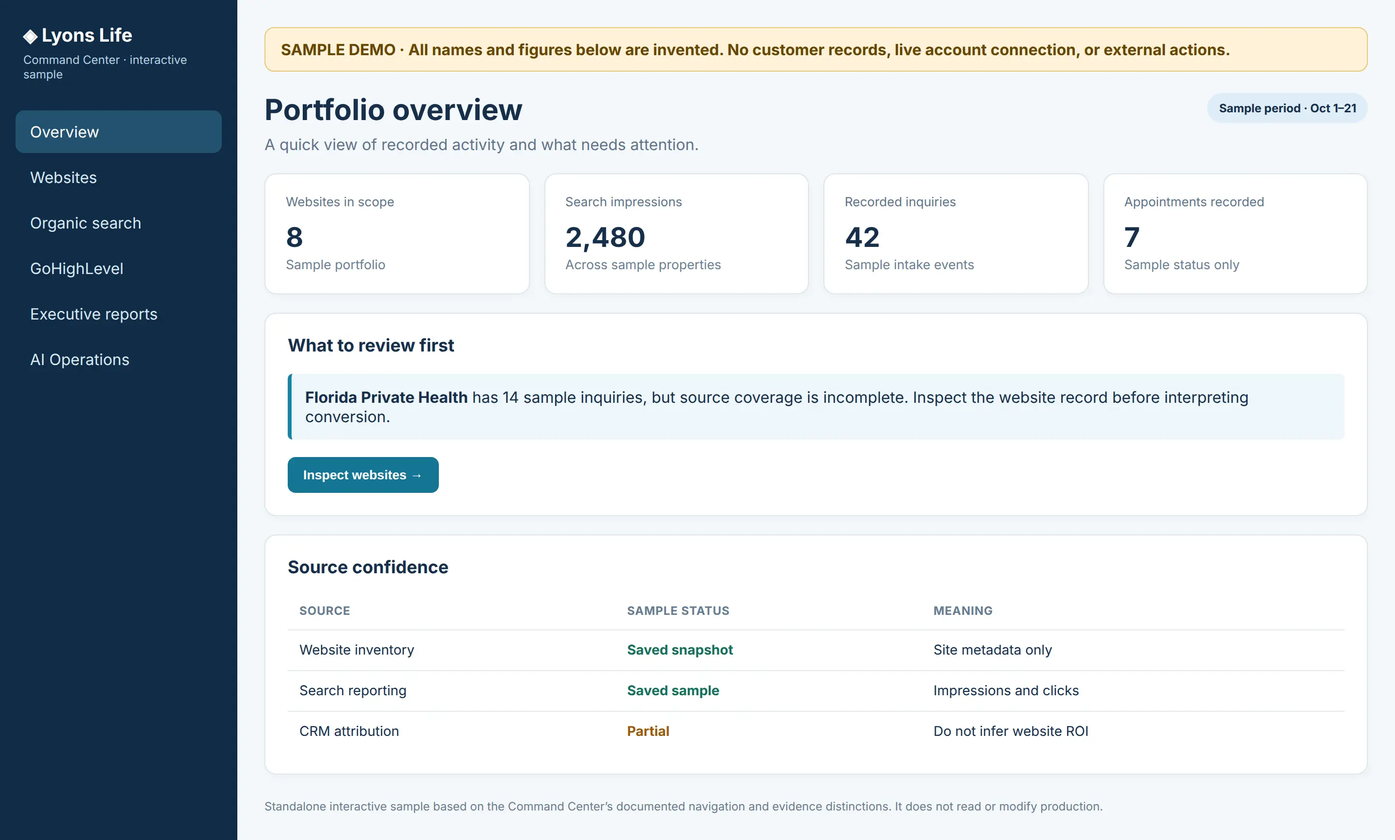
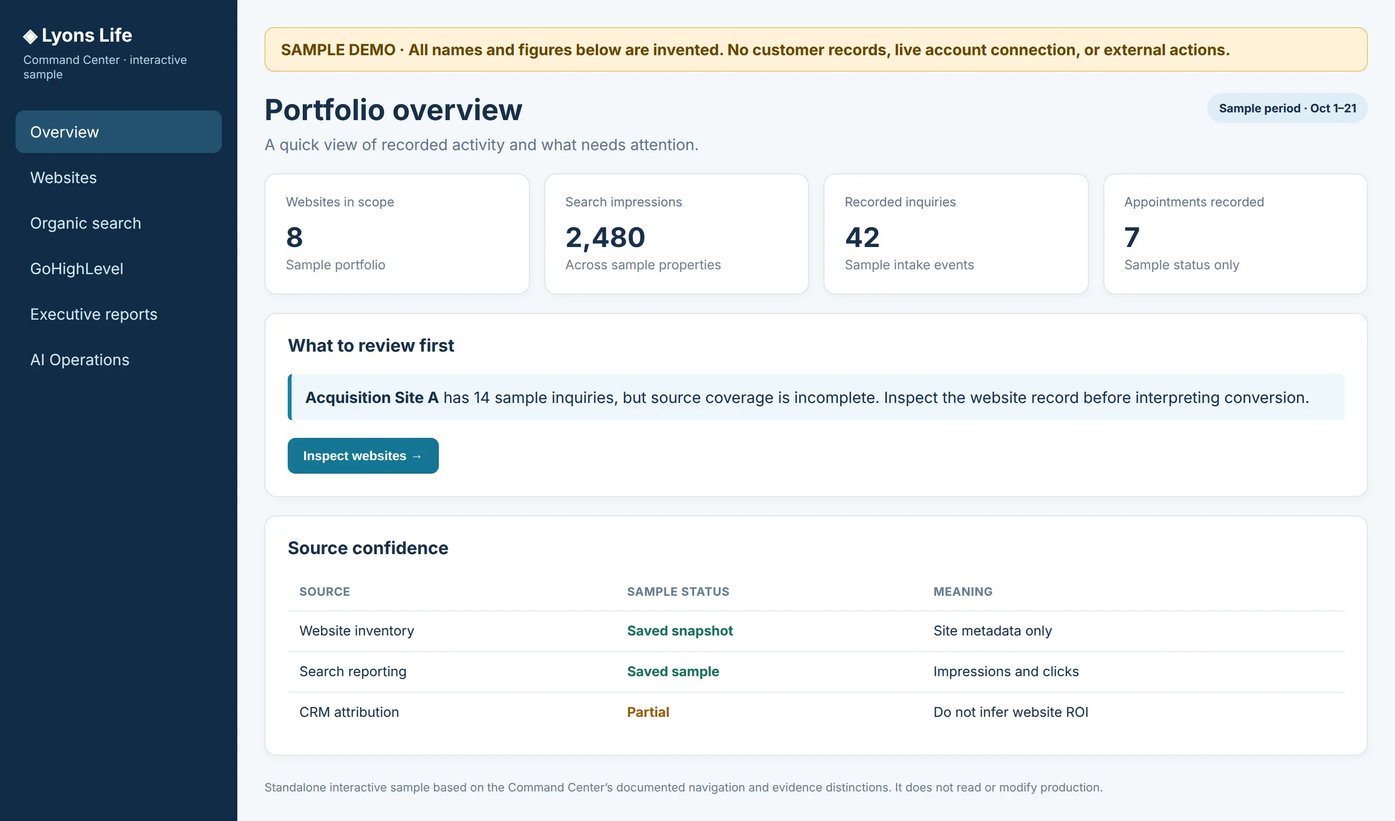
Add a simulated AI console and generic Lyons demo site labels.
Replace the sample site names with Acquisition Site A, B, and C, and add an example agent console that plays only while it is on screen.

diff --git a/public/work/lyons-life-demo/index.html b/public/work/lyons-life-demo/index.html
@@ -15,11 +15,11 @@
 </style></head><body>
 <aside><h1>◈ Lyons Life</h1><p>Command Center · interactive sample</p><nav aria-label="Demo navigation"><button data-page="overview" class="active">Overview</button><button data-page="websites">Websites</button><button data-page="seo">Organic search</button><button data-page="crm">GoHighLevel</button><button data-page="reports">Executive reports</button><button data-page="operations">AI Operations</button></nav></aside>
 <main><div class="banner" role="status">SAMPLE DEMO · All names and figures below are invented. No customer records, live account connection, or external actions.</div>
-<section class="section active" id="overview"><div class="top"><div><h2>Portfolio overview</h2><p class="muted">A quick view of recorded activity and what needs attention.</p></div><span class="pill">Sample period · Oct 1–21</span></div><div class="grid"><div class="card"><span>Websites in scope</span><strong>8</strong><small>Sample portfolio</small></div><div class="card"><span>Search impressions</span><strong>2,480</strong><small>Across sample properties</small></div><div class="card"><span>Recorded inquiries</span><strong>42</strong><small>Sample intake events</small></div><div class="card"><span>Appointments recorded</span><strong>7</strong><small>Sample status only</small></div></div><div class="panel"><h3>What to review first</h3><div class="notice"><strong>Florida Private Health</strong> has 14 sample inquiries, but source coverage is incomplete. Inspect the website record before interpreting conversion.</div><button class="button" data-go="websites">Inspect websites →</button></div><div class="panel"><h3>Source confidence</h3><table><tr><th>Source</th><th>Sample status</th><th>Meaning</th></tr><tr><td>Website inventory</td><td class="ok">Saved snapshot</td><td>Site metadata only</td></tr><tr><td>Search reporting</td><td class="ok">Saved sample</td><td>Impressions and clicks</td></tr><tr><td>CRM attribution</td><td class="hold">Partial</td><td>Do not infer website ROI</td></tr></table></div></section>
-<section class="section" id="websites"><h2>Websites</h2><p class="muted">Review each asset’s role, intake state, and reporting coverage.</p><div class="panel"><div class="row"><label for="siteFilter">Show</label><select id="siteFilter"><option value="all">All sample sites</option><option value="acquisition">Acquisition sites</option><option value="trust">Trust sites</option></select></div><table id="sites"><tr><th>Website</th><th>Role</th><th>Inquiry capture</th><th>Search coverage</th></tr><tr data-role="acquisition"><td>Florida Private Health</td><td>Acquisition</td><td class="hold">Review needed</td><td class="ok">Sample report</td></tr><tr data-role="acquisition"><td>Self Employed Health</td><td>Acquisition</td><td class="ok">Sample connected</td><td class="ok">Sample report</td></tr><tr data-role="trust"><td>Lyons Life</td><td>Trust</td><td>Not a lead receiver</td><td class="hold">Unknown</td></tr><tr data-role="acquisition"><td>ACA Florida</td><td>Acquisition</td><td class="hold">Unverified</td><td>Not imported</td></tr></table></div><div class="panel"><h3>Next step</h3><p>Compare an acquisition site’s search visibility with its recorded inquiry path.</p><button class="button" data-go="seo">Open organic search →</button></div></section>
-<section class="section" id="seo"><h2>Organic search</h2><p class="muted">Technical checks, reviewed drafts, and search performance are separate evidence.</p><div class="grid"><div class="card"><span>Sample impressions</span><strong>2,480</strong></div><div class="card"><span>Sample clicks</span><strong>31</strong></div><div class="card"><span>Average CTR</span><strong>1.25%</strong></div><div class="card"><span>Sites with sample reports</span><strong>2 / 4</strong></div></div><div class="panel"><h3>Visibility by site</h3><p>Florida Private Health · 1,680 impressions</p><div class="bar"><i style="width:68%"></i></div><p>Self Employed Health · 800 impressions</p><div class="bar"><i style="width:32%"></i></div><div class="notice">These are invented example figures. Search visibility alone does not prove leads, appointments, or sales.</div></div></section>
-<section class="section" id="crm"><h2>GoHighLevel</h2><p class="muted">A saved, read-only sample of CRM activity.</p><div class="grid"><div class="card"><span>Contacts created</span><strong>126</strong></div><div class="card"><span>Opportunities created</span><strong>39</strong></div><div class="card"><span>Calendar events</span><strong>12</strong></div><div class="card"><span>Unattributed contacts</span><strong>54</strong></div></div><div class="panel"><h3>Sample source coverage</h3><table><tr><th>Source</th><th>Contacts</th><th>Confidence</th></tr><tr><td>Florida Private Health</td><td>24</td><td class="ok">Exact source sample</td></tr><tr><td>Self Employed Health</td><td>18</td><td class="ok">Exact source sample</td></tr><tr><td>Unattributed</td><td>54</td><td class="hold">Unknown origin</td></tr></table><div class="notice">An opportunity is not a verified policy sale. These sample counts do not establish revenue.</div><button class="button" data-go="reports">View executive report →</button></div></section>
-<section class="section" id="reports"><h2>Executive reports</h2><p class="muted">Turn a saved period into a clear, evidence-labeled brief.</p><div class="panel"><div class="row"><label for="period">Saved period</label><select id="period"><option>Oct 1–21 · sample</option><option>Sep 1–30 · sample</option></select><button class="button" id="generate">Generate sample brief</button></div><div id="brief" class="notice" hidden><strong>Sample brief ready.</strong><p>Search visibility and inquiries were recorded in this invented period. Attribution remains partial; revenue and policy sales are unknown. Priority: verify lead capture and source mapping on Florida Private Health.</p><button class="button secondary" id="download">Download sample brief</button></div></div></section>
+<section class="section active" id="overview"><div class="top"><div><h2>Portfolio overview</h2><p class="muted">A quick view of recorded activity and what needs attention.</p></div><span class="pill">Sample period · Oct 1–21</span></div><div class="grid"><div class="card"><span>Websites in scope</span><strong>8</strong><small>Sample portfolio</small></div><div class="card"><span>Search impressions</span><strong>2,480</strong><small>Across sample properties</small></div><div class="card"><span>Recorded inquiries</span><strong>42</strong><small>Sample intake events</small></div><div class="card"><span>Appointments recorded</span><strong>7</strong><small>Sample status only</small></div></div><div class="panel"><h3>What to review first</h3><div class="notice"><strong>Acquisition Site A</strong> has 14 sample inquiries, but source coverage is incomplete. Inspect the website record before interpreting conversion.</div><button class="button" data-go="websites">Inspect websites →</button></div><div class="panel"><h3>Source confidence</h3><table><tr><th>Source</th><th>Sample status</th><th>Meaning</th></tr><tr><td>Website inventory</td><td class="ok">Saved snapshot</td><td>Site metadata only</td></tr><tr><td>Search reporting</td><td class="ok">Saved sample</td><td>Impressions and clicks</td></tr><tr><td>CRM attribution</td><td class="hold">Partial</td><td>Do not infer website ROI</td></tr></table></div></section>
+<section class="section" id="websites"><h2>Websites</h2><p class="muted">Review each asset’s role, intake state, and reporting coverage.</p><div class="panel"><div class="row"><label for="siteFilter">Show</label><select id="siteFilter"><option value="all">All sample sites</option><option value="acquisition">Acquisition sites</option><option value="trust">Trust sites</option></select></div><table id="sites"><tr><th>Website</th><th>Role</th><th>Inquiry capture</th><th>Search coverage</th></tr><tr data-role="acquisition"><td>Acquisition Site A</td><td>Acquisition</td><td class="hold">Review needed</td><td class="ok">Sample report</td></tr><tr data-role="acquisition"><td>Acquisition Site B</td><td>Acquisition</td><td class="ok">Sample connected</td><td class="ok">Sample report</td></tr><tr data-role="trust"><td>Lyons Life</td><td>Trust</td><td>Not a lead receiver</td><td class="hold">Unknown</td></tr><tr data-role="acquisition"><td>Acquisition Site C</td><td>Acquisition</td><td class="hold">Unverified</td><td>Not imported</td></tr></table></div><div class="panel"><h3>Next step</h3><p>Compare an acquisition site’s search visibility with its recorded inquiry path.</p><button class="button" data-go="seo">Open organic search →</button></div></section>
+<section class="section" id="seo"><h2>Organic search</h2><p class="muted">Technical checks, reviewed drafts, and search performance are separate evidence.</p><div class="grid"><div class="card"><span>Sample impressions</span><strong>2,480</strong></div><div class="card"><span>Sample clicks</span><strong>31</strong></div><div class="card"><span>Average CTR</span><strong>1.25%</strong></div><div class="card"><span>Sites with sample reports</span><strong>2 / 4</strong></div></div><div class="panel"><h3>Visibility by site</h3><p>Acquisition Site A · 1,680 impressions</p><div class="bar"><i style="width:68%"></i></div><p>Acquisition Site B · 800 impressions</p><div class="bar"><i style="width:32%"></i></div><div class="notice">These are invented example figures. Search visibility alone does not prove leads, appointments, or sales.</div></div></section>
+<section class="section" id="crm"><h2>GoHighLevel</h2><p class="muted">A saved, read-only sample of CRM activity.</p><div class="grid"><div class="card"><span>Contacts created</span><strong>126</strong></div><div class="card"><span>Opportunities created</span><strong>39</strong></div><div class="card"><span>Calendar events</span><strong>12</strong></div><div class="card"><span>Unattributed contacts</span><strong>54</strong></div></div><div class="panel"><h3>Sample source coverage</h3><table><tr><th>Source</th><th>Contacts</th><th>Confidence</th></tr><tr><td>Acquisition Site A</td><td>24</td><td class="ok">Exact source sample</td></tr><tr><td>Acquisition Site B</td><td>18</td><td class="ok">Exact source sample</td></tr><tr><td>Unattributed</td><td>54</td><td class="hold">Unknown origin</td></tr></table><div class="notice">An opportunity is not a verified policy sale. These sample counts do not establish revenue.</div><button class="button" data-go="reports">View executive report →</button></div></section>
+<section class="section" id="reports"><h2>Executive reports</h2><p class="muted">Turn a saved period into a clear, evidence-labeled brief.</p><div class="panel"><div class="row"><label for="period">Saved period</label><select id="period"><option>Oct 1–21 · sample</option><option>Sep 1–30 · sample</option></select><button class="button" id="generate">Generate sample brief</button></div><div id="brief" class="notice" hidden><strong>Sample brief ready.</strong><p>Search visibility and inquiries were recorded in this invented period. Attribution remains partial; revenue and policy sales are unknown. Priority: verify lead capture and source mapping on Acquisition Site A.</p><button class="button secondary" id="download">Download sample brief</button></div></div></section>
 <section class="section" id="operations"><h2>AI Operations</h2><p class="muted">Illustration of the safety controls. No agent runs from this demo.</p><div class="grid"><div class="card"><span>Global state</span><strong>Paused</strong></div><div class="card"><span>Outbound actions</span><strong>Off</strong></div><div class="card"><span>CRM writes</span><strong>Off</strong></div><div class="card"><span>Sample queued jobs</span><strong>0</strong></div></div><div class="panel"><h3>Human review</h3><p>Proposed actions would require verified source data, consent, and approval before any external step. This sample contains no real job or customer data.</p></div></section>
 <p class="footer">Standalone interactive sample based on the Command Center’s documented navigation and evidence distinctions. It does not read or modify production.</p></main>
 <script>const buttons=[...document.querySelectorAll('nav button')];function show(id){document.querySelectorAll('.section').forEach(s=>s.classList.toggle('active',s.id===id));buttons.forEach(b=>b.classList.toggle('active',b.dataset.page===id));location.hash=id;scrollTo(0,0)}buttons.forEach(b=>b.onclick=()=>show(b.dataset.page));document.querySelectorAll('[data-go]').forEach(b=>b.onclick=()=>show(b.dataset.go));document.querySelector('#siteFilter').onchange=e=>document.querySelectorAll('#sites tr[data-role]').forEach(r=>r.hidden=e.target.value!=='all'&&r.dataset.role!==e.target.value);document.querySelector('#generate').onclick=()=>document.querySelector('#brief').hidden=false;document.querySelector('#download').onclick=()=>{const t='Lyons Life Command Center - SAMPLE BRIEF\nAll figures are invented. No production data.\nAttribution: partial. Revenue and verified sales: unknown.\nPriority: verify lead capture and source mapping.\n';const a=document.createElement('a');a.href=URL.createObjectURL(new Blob([t],{type:'text/plain'}));a.download='lyons-life-sample-brief.txt';a.click();setTimeout(()=>URL.revokeObjectURL(a.href),1000)};if(location.hash&&document.querySelector(location.hash+'.section'))show(location.hash.slice(1));</script></body></html>

diff --git a/src/home-v2.css b/src/home-v2.css
@@ -111,7 +111,7 @@ em{font-family:var(--ser);font-style:italic;font-weight:400;letter-spacing:-.02e
 .reel-sound[aria-pressed="true"] .ico-on{display:block}
 .work{padding:112px 0 40px}
 .work .wrap{width:min(1280px,calc(100% - 64px))}
-#work,#example,#book{scroll-margin-top:88px}
+#work,#example,#agents,#book{scroll-margin-top:88px}
 .sec{margin-bottom:64px}
 .sec h2,.example h2,.close h2{margin:0;font-weight:520;letter-spacing:-.045em;line-height:1;text-wrap:balance}
 .sec h2{font-size:clamp(2.4rem,5vw,4.25rem)}
@@ -220,9 +220,105 @@ footer a:hover{color:var(--cream)}
 @keyframes keys{0%,100%{opacity:.28}50%{opacity:.85}}
 @keyframes glow{0%,100%{opacity:.45}50%{opacity:1}}
 @keyframes sweep{0%{opacity:0;transform:translate3d(-52%,26%,0)}22%{opacity:1}100%{opacity:0;transform:translate3d(46%,-22%,0)}}
+.ops{padding:108px 0 88px;border-top:1px solid var(--line)}
+.ops-head{display:flex;align-items:flex-end;justify-content:space-between;gap:28px}
+.ops h2{margin:0;font-size:clamp(1.7rem,2.15vw,2.4rem);font-weight:520;letter-spacing:-.045em;line-height:1.05;white-space:nowrap}
+.ops-head .btn{flex:none}
+.ops-board{margin-top:36px;padding:22px;border-radius:28px;border:1px solid var(--line);background:#12110f;box-shadow:0 24px 60px rgba(0,0,0,.28)}
+.ops-agents{display:grid;grid-template-columns:repeat(4,1fr);gap:12px}
+.agent{display:flex;gap:12px;align-items:flex-start;min-height:108px;padding:16px;border-radius:16px;border:1px solid var(--line);background:#0D0C0A}
+.agent strong{display:block;font-size:1rem;font-weight:620;letter-spacing:-.03em}
+.agent em{display:block;margin-top:4px;font-style:normal;color:var(--mute);font-size:.86rem}
+.dot{flex:none;width:9px;height:9px;margin-top:6px;border-radius:50%;background:var(--acid);box-shadow:0 0 0 4px rgba(212,255,58,.12)}
+.phases{position:relative;display:block;height:1.15em;margin-top:8px}
+.phases i{position:absolute;left:0;top:0;font-style:normal;font-size:11px;font-weight:650;letter-spacing:.12em;text-transform:uppercase}
+.phases .idle{color:var(--mute);opacity:0}
+.phases .work{color:#007BF8;opacity:0}
+.phases .done{color:var(--acid);opacity:1}
+.ops-stage{display:grid;grid-template-columns:1.2fr .8fr;gap:16px;margin-top:16px}
+.ops-prompt,.ops-feed{padding:18px;border-radius:18px;border:1px solid var(--line);background:#0D0C0A}
+.kicker{margin:0 0 12px;color:var(--mute);font-size:11px;font-weight:650;letter-spacing:.14em;text-transform:uppercase}
+.ops-type{min-height:1.4em;margin:0;font-family:var(--ser);font-style:italic;font-size:clamp(1.35rem,2vw,1.8rem);letter-spacing:-.02em;line-height:1.2}
+.ops-type i{font-style:normal}
+.caret{display:inline-block;width:2px;height:.85em;margin-left:2px;background:var(--acid);transform:translateY(2px);opacity:0;vertical-align:baseline}
+.ops-pick{margin:12px 0 0;color:var(--soft);font-size:.92rem}
+.ops-steps{list-style:none;margin:16px 0 0;padding:0}
+.ops-steps li{display:flex;align-items:center;gap:10px;min-height:40px;font-size:.98rem}
+.tick{flex:none;width:16px;height:16px;border-radius:50%;border:1.5px solid var(--acid);position:relative}
+.tick::after{content:"";position:absolute;left:4px;top:2px;width:4px;height:7px;border-right:1.5px solid var(--ink);border-bottom:1.5px solid var(--ink);transform:rotate(45deg);opacity:0}
+.ops-steps .tick,.ops-feed .tick{background:var(--acid)}
+.ops-steps .tick::after,.ops-feed .tick::after{opacity:1}
+.chip{margin-left:auto;display:inline-flex;align-items:center;min-height:28px;padding:0 10px;border-radius:99px;background:var(--acid);color:var(--ink);font-size:12px;font-weight:700;letter-spacing:-.01em}
+.ops-feed ul{list-style:none;margin:0;padding:0}
+.ops-feed li{display:grid;grid-template-columns:minmax(0,1fr) auto;grid-template-areas:"who tick" "what what" "bar bar";gap:6px 10px;align-items:center;padding:12px 0;border-top:1px solid var(--line)}
+.ops-feed li:first-child{border-top:0;padding-top:0}
+.ops-feed .who{grid-area:who;color:var(--soft);font-size:.82rem;font-weight:650}
+.ops-feed .what{grid-area:what;font-size:.98rem;letter-spacing:-.02em}
+.ops-feed .track{grid-area:bar;display:block;height:4px;border-radius:99px;background:rgba(241,234,219,.12);overflow:hidden}
+.ops-feed .track i{display:block;height:100%;width:100%;background:var(--acid);transform:scaleX(1);transform-origin:left center}
+.ops-feed .tick{grid-area:tick}
+.ops-pause{display:block;margin:16px 0 0 auto;min-height:36px;padding:0 12px;border-radius:8px;border:1px solid rgba(241,234,219,.32);background:#0D0C0A;color:var(--cream);font:600 12px/1 var(--disp);cursor:pointer}
+@media (max-width:980px){
+  .ops h2{white-space:normal}
+  .ops-head{display:block}
+  .ops-head .btn{margin-top:18px}
+  .ops-agents,.ops-stage{grid-template-columns:1fr 1fr}
+  .ops-stage{grid-template-columns:1fr}
+}
+@media (prefers-reduced-motion:no-preference){
+  .ops .agent{animation:opsAgent 14s linear infinite;animation-play-state:paused}
+  .ops .agent:nth-child(2){animation-delay:.12s}
+  .ops .agent:nth-child(3){animation-delay:.24s}
+  .ops .agent:nth-child(4){animation-delay:.36s}
+  .ops .dot,.ops .phases i{animation-duration:14s;animation-timing-function:linear;animation-iteration-count:infinite;animation-play-state:paused;animation-delay:var(--d,0s)}
+  .ops .dot{animation-name:opsDot}
+  .ops .idle{animation-name:opsIdle}
+  .ops .work{animation-name:opsWork}
+  .ops .done{animation-name:opsDone}
+  .ops-type i{animation:opsType 14s linear infinite;animation-play-state:paused;animation-delay:calc(var(--i) * .05s)}
+  .caret{animation:opsCaret 14s linear infinite;animation-play-state:paused}
+  .ops-pick{animation:opsPick 14s linear infinite;animation-play-state:paused}
+  .s1 .tick{animation:opsTick1 14s linear infinite;animation-play-state:paused}
+  .s2 .tick{animation:opsTick2 14s linear infinite;animation-play-state:paused}
+  .s3 .tick{animation:opsTick3 14s linear infinite;animation-play-state:paused}
+  .chip{animation:opsChip 14s linear infinite;animation-play-state:paused}
+  .row.a .track i{animation:opsBarA 14s linear infinite;animation-play-state:paused}
+  .row.b .track i{animation:opsBarB 14s linear infinite;animation-play-state:paused}
+  .row.c .track i{animation:opsBarC 14s linear infinite;animation-play-state:paused}
+  .row.a .tick{animation:opsTickA 14s linear infinite;animation-play-state:paused}
+  .row.b .tick{animation:opsTickB 14s linear infinite;animation-play-state:paused}
+  .row.c .tick{animation:opsTickC 14s linear infinite;animation-play-state:paused}
+  .ops.is-on:not(.is-paused) .agent,
+  .ops.is-on:not(.is-paused) .dot,
+  .ops.is-on:not(.is-paused) .phases i,
+  .ops.is-on:not(.is-paused) .ops-type i,
+  .ops.is-on:not(.is-paused) .caret,
+  .ops.is-on:not(.is-paused) .ops-pick,
+  .ops.is-on:not(.is-paused) .tick,
+  .ops.is-on:not(.is-paused) .chip,
+  .ops.is-on:not(.is-paused) .track i{animation-play-state:running}
+}
+@keyframes opsAgent{0%{opacity:0;transform:translateY(16px) scale(.98)}10%,92%{opacity:1;transform:none}100%{opacity:0;transform:translateY(10px)}}
+@keyframes opsDot{0%,14%{opacity:.28;transform:scale(.75)}18%{opacity:1;transform:scale(1)}24%{opacity:.4;transform:scale(.85)}30%{opacity:1;transform:scale(1)}36%{opacity:.45;transform:scale(.85)}42%,90%{opacity:1;transform:scale(1)}100%{opacity:.28;transform:scale(.75)}}
+@keyframes opsIdle{0%,14%{opacity:1}20%,90%{opacity:0}100%{opacity:1}}
+@keyframes opsWork{0%,16%{opacity:0}20%{opacity:1}26%{opacity:.35}32%{opacity:1}38%{opacity:.4}44%,100%{opacity:0}}
+@keyframes opsDone{0%,42%{opacity:0}48%,90%{opacity:1}100%{opacity:0}}
+@keyframes opsType{0%,16%{opacity:0}22%,88%{opacity:1}96%,100%{opacity:0}}
+@keyframes opsCaret{0%,16%{opacity:0}18%{opacity:1}22%{opacity:0}26%{opacity:1}32%{opacity:0}38%{opacity:1}44%,100%{opacity:0}}
+@keyframes opsPick{0%,38%{opacity:0;transform:translateY(6px)}46%,92%{opacity:1;transform:none}100%{opacity:0;transform:none}}
+@keyframes opsTick1{0%,44%{opacity:0;transform:scale(.7)}50%,92%{opacity:1;transform:none}100%{opacity:0;transform:scale(.7)}}
+@keyframes opsTick2{0%,54%{opacity:0;transform:scale(.7)}60%,92%{opacity:1;transform:none}100%{opacity:0;transform:scale(.7)}}
+@keyframes opsTick3{0%,76%{opacity:0;transform:scale(.7)}82%,92%{opacity:1;transform:none}100%{opacity:0;transform:scale(.7)}}
+@keyframes opsChip{0%,64%{opacity:0;transform:translateY(8px) scale(.96)}72%,92%{opacity:1;transform:none}100%{opacity:0;transform:translateY(6px)}}
+@keyframes opsBarA{0%,12%{transform:scaleX(0)}36%,92%{transform:scaleX(1)}100%{transform:scaleX(0)}}
+@keyframes opsBarB{0%,20%{transform:scaleX(0)}50%,92%{transform:scaleX(1)}100%{transform:scaleX(0)}}
+@keyframes opsBarC{0%,28%{transform:scaleX(0)}60%,92%{transform:scaleX(1)}100%{transform:scaleX(0)}}
+@keyframes opsTickA{0%,34%{opacity:0;transform:scale(.7)}40%,92%{opacity:1;transform:none}100%{opacity:0;transform:scale(.7)}}
+@keyframes opsTickB{0%,48%{opacity:0;transform:scale(.7)}54%,92%{opacity:1;transform:none}100%{opacity:0;transform:scale(.7)}}
+@keyframes opsTickC{0%,58%{opacity:0;transform:scale(.7)}64%,92%{opacity:1;transform:none}100%{opacity:0;transform:scale(.7)}}
 @media (prefers-reduced-motion:reduce){
   *,*::before,*::after{animation:none!important;transition:none!important}
-  .reel-sound,.hero-pause{display:none!important}
+  .reel-sound,.hero-pause,.ops-pause{display:none!important}
   html{scroll-behavior:auto}
   .lost li:nth-child(2){transform:none}
 }
@@ -251,7 +347,8 @@ footer a:hover{color:var(--cream)}
   .hero-pause{position:static;order:4;margin:0 16px 16px;align-self:flex-end}
   .work{padding-top:72px}
   .pieces{gap:72px}
-  .example,.close{padding:72px 0}
+  .example,.close,.ops{padding:72px 0}
+  .ops-agents{grid-template-columns:1fr}
   .split{grid-template-columns:1fr;gap:16px}
   .to{width:2px;height:36px;justify-self:center;background:linear-gradient(180deg,rgba(163,155,140,.4),var(--acid))}
   .to::after{right:auto;left:50%;top:auto;bottom:-4px;transform:translateX(-50%) rotate(135deg)}

diff --git a/index.html b/index.html
@@ -248,7 +248,7 @@
             <div class="tilt">
               <div class="device">
                 <span class="device-top" aria-hidden="true"><i></i><i></i><i></i></span>
-                <img src="/home-v2/lyons-life.webp" width="2880" height="1735" alt="Lyons Life Command Center sample demo" decoding="async" loading="lazy">
+                <img src="/home-v2/lyons-life.webp" width="2880" height="1695" alt="Lyons Life Command Center sample demo" decoding="async" loading="lazy">
               </div>
               <div class="cap"><h3>Lyons Life Command Center</h3><span class="line">Try the interactive demo</span></div>
               <p class="piece-note">A command center for an insurance agency's website portfolio: websites, organic search, GoHighLevel CRM activity, executive reports and AI operations with human-approval safety controls, in one place.</p>
@@ -299,6 +299,67 @@
         </div>
       </div>
       <p class="note">Example, not a client's data.</p>
+    </div>
+  </section>
+
+  <section class="ops" id="agents" aria-labelledby="agents-title">
+    <div class="wrap">
+      <div class="ops-head">
+        <div>
+          <p class="ex">Example console, simulated</p>
+          <h2 id="agents-title">AI agents that work for your business, with you in control.</h2>
+        </div>
+        <a class="btn" href="/book/" data-fsai-placement="home_agents">Book a call</a>
+      </div>
+      <div class="ops-board" aria-hidden="true">
+        <div class="ops-agents">
+          <article class="agent" style="--d:0s">
+            <span class="dot"></span>
+            <div><strong>Lead Responder</strong><em>Answers new inquiries</em>
+              <span class="phases"><i class="idle">Idle</i><i class="work">Working</i><i class="done">Done</i></span>
+            </div>
+          </article>
+          <article class="agent" style="--d:3.4s">
+            <span class="dot"></span>
+            <div><strong>Follow-up</strong><em>Writes the next text</em>
+              <span class="phases"><i class="idle">Idle</i><i class="work">Working</i><i class="done">Done</i></span>
+            </div>
+          </article>
+          <article class="agent" style="--d:1.2s">
+            <span class="dot"></span>
+            <div><strong>Reporting</strong><em>Prepares the daily brief</em>
+              <span class="phases"><i class="idle">Idle</i><i class="work">Working</i><i class="done">Done</i></span>
+            </div>
+          </article>
+          <article class="agent" style="--d:2.4s">
+            <span class="dot"></span>
+            <div><strong>Scheduler</strong><em>Holds an open time</em>
+              <span class="phases"><i class="idle">Idle</i><i class="work">Working</i><i class="done">Done</i></span>
+            </div>
+          </article>
+        </div>
+        <div class="ops-stage">
+          <div class="ops-prompt">
+            <p class="kicker">Prompt</p>
+            <p class="ops-type"><i style="--i:0">F</i><i style="--i:1">o</i><i style="--i:2">l</i><i style="--i:3">l</i><i style="--i:4">o</i><i style="--i:5">w</i><i style="--i:6">&nbsp;</i><i style="--i:7">u</i><i style="--i:8">p</i><i style="--i:9">&nbsp;</i><i style="--i:10">w</i><i style="--i:11">i</i><i style="--i:12">t</i><i style="--i:13">h</i><i style="--i:14">&nbsp;</i><i style="--i:15">e</i><i style="--i:16">v</i><i style="--i:17">e</i><i style="--i:18">r</i><i style="--i:19">y</i><i style="--i:20">&nbsp;</i><i style="--i:21">m</i><i style="--i:22">i</i><i style="--i:23">s</i><i style="--i:24">s</i><i style="--i:25">e</i><i style="--i:26">d</i><i style="--i:27">&nbsp;</i><i style="--i:28">c</i><i style="--i:29">a</i><i style="--i:30">l</i><i style="--i:31">l</i><i style="--i:32">&nbsp;</i><i style="--i:33">t</i><i style="--i:34">o</i><i style="--i:35">d</i><i style="--i:36">a</i><i style="--i:37">y</i><b class="caret"></b></p>
+            <p class="ops-pick">Picked up by Follow-up</p>
+            <ol class="ops-steps">
+              <li class="s1"><i class="tick"></i><span>Read the missed calls</span></li>
+              <li class="s2"><i class="tick"></i><span>Draft the text</span></li>
+              <li class="s3"><i class="tick"></i><span>Needs your approval</span><b class="chip">Approve</b></li>
+            </ol>
+          </div>
+          <div class="ops-feed">
+            <p class="kicker">Task feed</p>
+            <ul>
+              <li class="row a"><span class="who">Lead Responder</span><span class="what">Answer the new inquiry</span><span class="track"><i></i></span><i class="tick"></i></li>
+              <li class="row b"><span class="who">Reporting</span><span class="what">Prepare today's report</span><span class="track"><i></i></span><i class="tick"></i></li>
+              <li class="row c"><span class="who">Scheduler</span><span class="what">Hold an open time</span><span class="track"><i></i></span><i class="tick"></i></li>
+            </ul>
+          </div>
+        </div>
+      </div>
+      <button class="ops-pause" type="button" aria-pressed="false">Pause animation</button>
     </div>
   </section>
 

diff --git a/test/publicConversionPaths.test.js b/test/publicConversionPaths.test.js
@@ -15,8 +15,8 @@ test("the homepage leads with the studio offer and keeps products distinct", asy
   assert.match(html, /href="\/tools\/"/);
   assert.match(html, /href="\/journey\/"/);
   assert.match(html, /firststep-logo-transparent-cleaned\.png/);
-  assert.equal((html.match(/Book a call/g) || []).length, 3);
-  assert.equal((html.match(/href="\/book\/"/g) || []).length, 3);
+  assert.equal((html.match(/Book a call/g) || []).length, 4);
+  assert.equal((html.match(/href="\/book\/"/g) || []).length, 4);
   assert.doesNotMatch(html, /Book a 20-min call/);
   assert.match(llms, /Get more from the business you already have/);
   assert.match(llms, /1stStep OS/);
@@ -38,7 +38,18 @@ test("the homepage keeps a short section order and service pages keep their own 
   for (const anchor of ["work", "example", "founder", "book"]) assert.match(html, new RegExp('id="' + anchor + '"'));
   assert.ok(html.indexOf('id="work"') < html.indexOf('id="example"') && html.indexOf('id="example"') < html.indexOf('id="book"'));
   assert.doesNotMatch(html, /id="makeover"|id="flow"|id="paths"|id="works"|id="how"/);
-  assert.equal((html.match(/href="\/book\/"/g) || []).length, 3);
+  assert.equal((html.match(/href="\/book\/"/g) || []).length, 4);
+  assert.match(html, /id="agents"/);
+  assert.ok(html.indexOf('id="example"') < html.indexOf('id="agents"') && html.indexOf('id="agents"') < html.indexOf('id="book"'));
+  assert.match(html, /AI agents that work for your business, with you in control\./);
+  assert.match(html, /Example console, simulated/);
+  assert.match(html, /Needs your approval/);
+  const demo = await source("public/work/lyons-life-demo/index.html");
+  assert.doesNotMatch(demo, /Florida Private Health|Self Employed Health|ACA Florida/);
+  assert.match(demo, /Acquisition Site A/);
+  assert.match(demo, /Acquisition Site B/);
+  assert.match(demo, /Acquisition Site C/);
+  assert.match(demo, /Lyons Life/);
   for (const path of ["websites", "internal-tools", "revenue-systems", "mvp-builds"]) {
     assert.match(await source(`services/${path}.html`), /<h1/);
   }

diff --git a/src/home-v2.js b/src/home-v2.js
@@ -68,6 +68,30 @@
     requestAnimationFrame(applyScroll);
   }
 
+  const ops = document.querySelector('.ops');
+  const opsPause = document.querySelector('.ops-pause');
+  let opsPaused = false;
+  let opsIn = false;
+  const syncOps = () => {
+    if (!ops) return;
+    ops.classList.toggle('is-paused', opsPaused);
+    ops.classList.toggle('is-on', opsIn && !opsPaused && !reduced);
+  };
+  if (ops && !reduced && 'IntersectionObserver' in window) {
+    new IntersectionObserver(([entry]) => {
+      opsIn = entry.isIntersecting;
+      syncOps();
+    }, { threshold: 0.28 }).observe(ops);
+  }
+  if (opsPause && !reduced) {
+    opsPause.addEventListener('click', () => {
+      opsPaused = !opsPaused;
+      opsPause.setAttribute('aria-pressed', opsPaused ? 'true' : 'false');
+      opsPause.textContent = opsPaused ? 'Play animation' : 'Pause animation';
+      syncOps();
+    });
+  }
+
   if (!video || !button) return;
 
   const paintSound = (on) => {

diff --git a/docs/architecture/decision-log.md b/docs/architecture/decision-log.md
@@ -1,5 +1,13 @@
 # Architecture Decision Log
 
+## 2026-10-22: Generic demo site labels, and an example AI console
+
+- **Status / owner:** Evan asked for a privacy pass on the hosted Lyons Life demo and a new homepage AI operations section. Preview only. No production deploy.
+- **Decision:** Florida Private Health, Self Employed Health, and ACA Florida in the sample demo are now Acquisition Site A, B, and C. Lyons Life stays. The homepage gains an example console between the lost-to-booked path and the closing call. The headline is “AI agents that work for your business, with you in control.” Book a call goes to `/book/`. Four agents, a task feed, a typed prompt, and an Approve chip run a 14 second loop of transform and opacity. It plays only while the section is in view. Reduced motion shows the approval frame still and hides Pause animation. The board is marked “Example console, simulated” and names no clients and no results.
+- **Rationale:** The sample names looked like real agency sites. The console should show human control without inventing a customer or a metric.
+- **Affected systems:** `public/work/lyons-life-demo/index.html`, `public/home-v2/lyons-life.webp`, `index.html`, `src/home-v2.css`, `src/home-v2.js`, `public/llms.txt`.
+- **Rollback:** Restore the previous demo names and remove the `#agents` section.
+
 ## 2026-10-22: Lyons Life Command Center card links to Evan's sample demo
 
 - **Status / owner:** Evan supplied a self-contained interactive sample and asked for it on the Selected work card. Preview only. No production deploy. This supersedes the empty-slot sentence in the motion-layer entry below.
